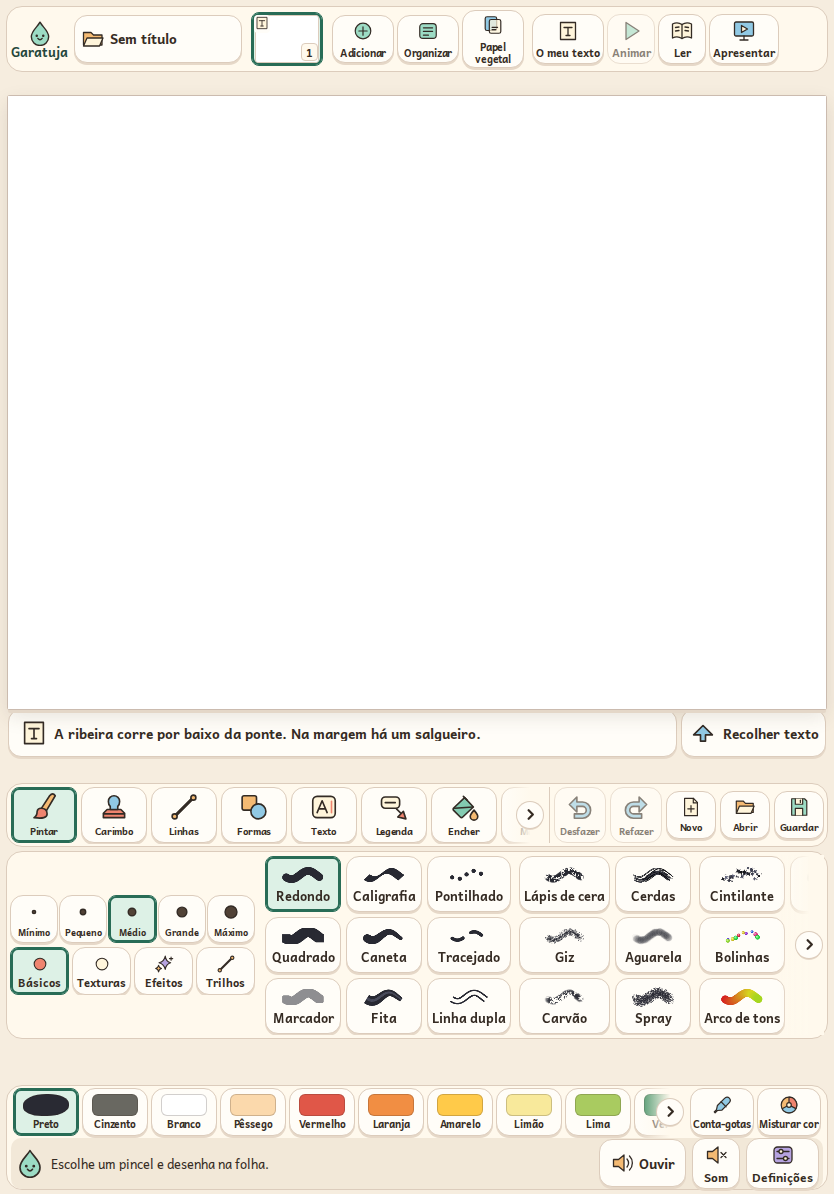
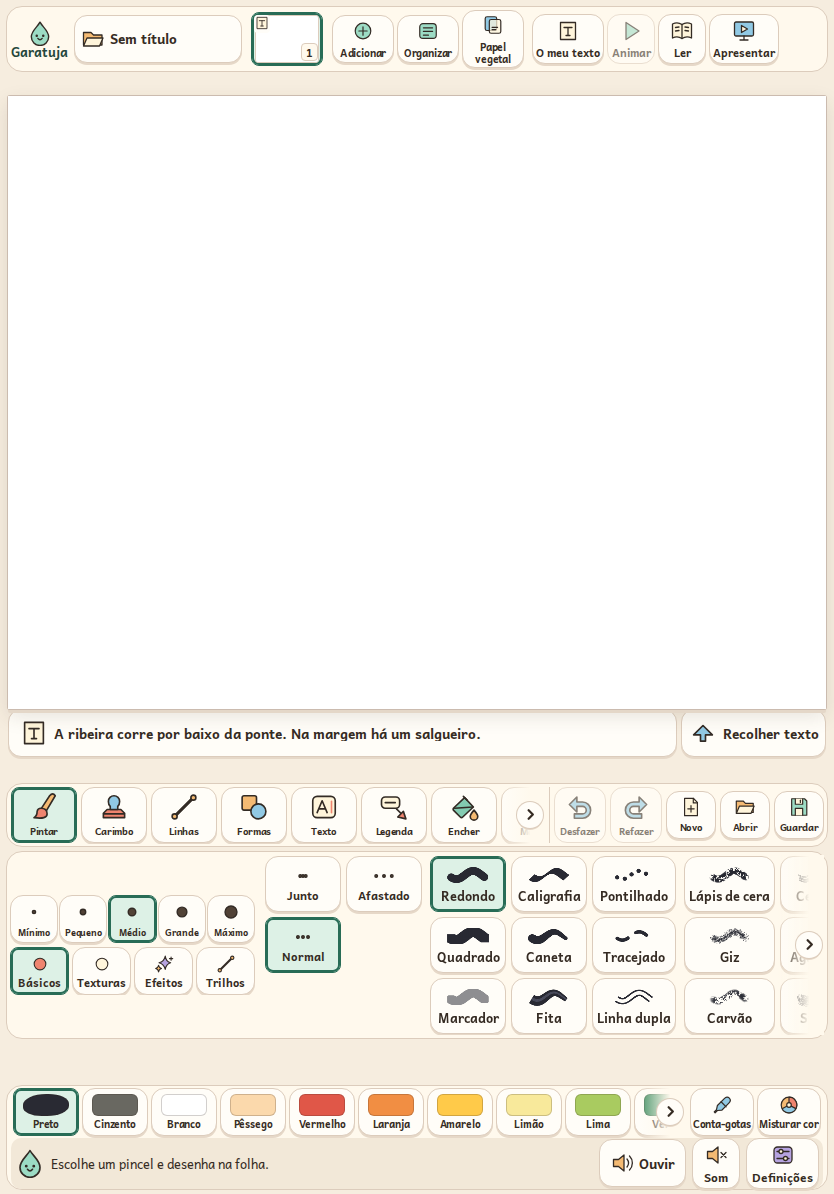
Record fifth-round QA and refresh the affected screenshots

Changed region(s): [[0.3118, 0.7127, 0.9664, 0.8677]]

diff --git a/docs/SPEC.md b/docs/SPEC.md
@@ -92,13 +92,13 @@ Pingo · Ouvir · Som · Definições
 
 | Ferramenta | id | Conteúdo |
 | --- | --- | --- |
-| Pintar | `paint` | ≥ 20 pincéis (`BrushDef`): redondo, quadrado, caligrafia, giz, lápis de cera, aguarela, spray, marcador, pontilhado, direcionais (seta, pegadas), animados (cintilante), pressão da caneta; 5 tamanhos |
+| Pintar | `paint` | ≥ 20 pincéis (`BrushDef`): redondo, quadrado, caligrafia, giz, lápis de cera, aguarela, spray, marcador, pontilhado, direcionais (seta, pegadas), animados (cintilante), pressão da caneta e 5 tamanhos. Espaçamento em três passos na interface completa |
 | Carimbo | `stamp` | categorias, tamanho, espelhar, virar, rodar; carimbos tingíveis; **«Os meus carimbos»** |
-| Linhas | `lines` | reta com qualquer pincel; Shift = ângulos de 15° |
+| Linhas | `lines` | reta com qualquer pincel e o espaçamento escolhido em Pintar; Shift = ângulos de 15° |
 | Formas | `shapes` | quadrado, retângulo, círculo, elipse, triângulo, pentágono, hexágono, octógono, losango, estrelas 5/6 pontas, coração, seta; cheio/contorno; do centro/do canto; rodar |
-| Texto | `text` | escreve no bitmap; fontes: Andika, manuscrita escolar (Playwrite PT), título, máquina de escrever; tamanhos; o bloco sobe para caber na folha e avisa durante a escrita quando excede a altura da folha; opção Só maiúsculas em toda a interface |
+| Texto | `text` | escreve no bitmap; fontes: Andika, manuscrita escolar (Playwrite PT), título, máquina de escrever; tamanhos; o bloco sobe e desloca-se para a esquerda para caber na folha. A largura respeita a palavra mais longa até ao limite da folha. O aviso aparece quando o bloco excede a folha; opção Só maiúsculas em toda a interface |
 | Legenda | `label` | texto que continua editável (mover, reescrever, apagar). Em clique fixo, Só texto e Narrador abrem ao primeiro toque numa zona livre. Mover uma legenda ou a sua pega continua a usar dois cliques. Pronto mantém aberto o campo se o texto exceder a folha e liberta a seleção quando a edição é aceite; **seta de legenda** e **número** para esquemas de texto informativo; **balões** de fala/pensamento/grito para narrativa |
-| Encher | `fill` | sólido, gradiente linear, radial, padrões, Pincel limitado à zona tocada e Apagar zona para repor o papel; tolerância que respeita linhas do modelo |
+| Encher | `fill` | sólido, gradiente linear, radial, padrões, Pincel com cinco tamanhos, limitado à zona tocada e Apagar zona para repor o papel; tolerância que respeita linhas do modelo |
 | Magia | `magic` | ≥ 60 efeitos (`MagicEffect`) em 5 categorias: pintar, cor, distorcer, padrões, página inteira |
 | Borracha | `eraser` | redonda/quadrada, 5 tamanhos; repõe o papel |
 | Mover | `move` | recortar um retângulo ou um laço, mover/aumentar/rodar/duplicar; **guardar como carimbo** |
@@ -129,7 +129,7 @@ inteira, o interruptor Em toda a folha fica junto dos tamanhos.
   o avanço percorre primeiro o texto da página por ecrãs. No fim, painel de comentários «Gostei / Pergunto / Sugiro» (texto livre, com nome de quem diz).
 - **Ler/Imprimir como livro** tem capa tipográfica com título, autor, destinatário e turma, quando definida.
   Cada ilustração aparece junto do seu texto. Ler mostra a miniatura enquanto prepara a imagem completa.
-  O livro impresso usa letra de 16 a 18 pt consoante o comprimento do texto. O rodapé acompanha o fim do texto.
+  O livro impresso usa letra de 16 a 18 pt consoante o comprimento do texto. A capa usa 36 pt no título e 20 pt no autor. O rodapé acompanha o fim do texto.
   Um trabalho de uma página sem título nem autor começa na própria página.
 - **Abrir → Diapositivos** permite selecionar trabalhos pela ordem em que a turma os vai ver.
   O leitor em ecrã inteiro passa por todas as páginas e mostra o título e autor de cada trabalho.
@@ -156,7 +156,7 @@ Apagar um trabalho aberto descarta o rascunho e envia a revisão guardada para a
 A exportação exclui a reciclagem e mostra o progresso. Quando o arquivo excede 160 MiB, apresenta
 volumes `.garatuja` importáveis individualmente. Um trabalho maior do que um volume divide-se nas
 fronteiras entre páginas.
-A eliminação exige escrever APAGAR (DELETE na interface em inglês). Limpa os trabalhos, carimbos,
+A eliminação exige escrever APAGAR (DELETE na interface em inglês). Aceita espaços antes e depois da palavra. Limpa os trabalhos, carimbos,
 reciclagem, rascunhos de recuperação e definições.
 
 Opções: interface
@@ -167,10 +167,10 @@ permitir importar ficheiros, clique fixo, cursor grande, alto contraste, mão es
 O teclado no ecrã é opcional e também está nas definições da criança. A disposição pode ser
 alfabética ou QWERTY. Texto, Legenda, O meu texto, os dados do trabalho e os comentários aceitam
 rato, toque e teclado físico. O teclado no ecrã tem teclas de pelo menos 48 px, maiúsculas, vogais acentuadas,
-cedilha, algarismos, pontuação, «º», «ª», hífen, espaço, apagar e nova linha nos campos com várias linhas.
+cedilha, algarismos, pontuação incluindo os sinais do discurso direto, «º», «ª», hífen, espaço, apagar e nova linha nos campos com várias linhas.
 Na folha, o teclado muda de posição para deixar o campo e as ações visíveis.
 Nos ecrãs estreitos, a tecla «á ç 123» dá acesso a acentos, números e sinais.
-Só maiúsculas aplica-se ao texto introduzido enquanto a opção está ativa. Os caracteres já escritos conservam a sua forma guardada.
+Só maiúsculas aplica-se à interface e ao texto introduzido enquanto a opção está ativa. Os caracteres já escritos conservam a grafia no editor e em todas as saídas. Ctrl+Z dentro de um campo usa o histórico desse campo.
 
 ## 7. Arquitetura
 
@@ -199,7 +199,7 @@ Só maiúsculas aplica-se ao texto introduzido enquanto a opção está ativa. O
   também em clique fixo.
 - O primeiro traço prepara o PNG e grava um rascunho em IndexedDB antes da gravação automática.
   A publicação do trabalho usa uma transação separada da escrita do rascunho. Se a página fechar
-  durante a publicação, o arranque seguinte pode recuperar o rascunho.
+  durante a publicação, o arranque seguinte pode recuperar o rascunho. Se a publicação continuar a falhar, a mesa abre o rascunho ativo e mantém um aviso com nova tentativa e exportação. Os rascunhos de outros trabalhos continuam disponíveis na galeria.
 - Se faltar espaço para guardar, a criança pode mudar de página ou começar outro trabalho. A
   versão em memória continua disponível na galeria e no ficheiro de recuperação. O aviso de
   gravação mantém-se até a gravação das alterações. A folha inicial intacta fica fora da galeria.

diff --git a/docs/QA.md b/docs/QA.md
@@ -148,9 +148,39 @@ O codificador GIF fica num worker separado. As licenças carregam ao abrir Créd
 - `npm run check` → TypeScript, ESLint, 273 testes unitários e compilação passaram — 2026-11-23
 - Cinco execuções seguidas de `npm run e2e` → cada uma teve 356 testes aprovados, 9 ignorados pela configuração e zero falhas. Duração por ordem em minutos: 3,6, 3,6, 3,6, 3,5 e 3,6 — 2026-11-23
 
+## Quinta ronda
+
+### Recuperação e autoria
+
+- Quota de publicação esgotada ao recarregar → abre o texto e o desenho do rascunho, mostra o aviso âmbar, exporta para `.garatuja` e publica quando a próxima tentativa tem espaço — 2026-11-23
+- Saída durante a publicação ou depois do primeiro traço → o rascunho é recuperado e o trabalho reaparece uma única vez. Um rascunho de outro trabalho conserva a entrada na galeria e fornece a imagem atual a Usar como modelo. Rascunhos independentes do mesmo trabalho ficam disponíveis em separado — 2026-11-23
+- Publicações simultâneas, cópia alterada noutro separador e Anular → página e comentário são repostos na cópia em que a eliminação ficou gravada. Anular um carimbo repõe o carimbo apagado mesmo que outro separador crie um novo — 2026-11-23
+- Reciclagem, expiração e apagar dados → a expiração confirma a revisão, Anular repõe um trabalho que só tinha rascunho, um aviso antigo de Anular só vale para a eliminação que o criou e um separador antigo não recria os trabalhos apagados pelo professor — 2026-11-23
+- Importação e exportação do professor → a importação valida as imagens antes de publicar o lote, atribui identificadores novos e abre o primeiro trabalho importado sem substituir o anterior. A exportação inclui os rascunhos e as revisões guardadas em conflito, exclui a reciclagem e divide arquivos grandes em volumes importáveis — 2026-11-23
+- Só maiúsculas em Ler, Apresentar, Diapositivos, impressão e faixa da mesa → texto e autoria mantêm a grafia. Miniatura, PNG, GIF e `.garatuja` têm o mesmo conteúdo com a opção ligada ou desligada — 2026-11-23
+- Capa e texto em PDF A4 → o PDF conserva «A Lia chegou ao Funchal.» e usa 36 pt no título, 20 pt no autor e 18 pt no corpo do exemplo — 2026-11-23
+- Texto junto ao lado direito e balão de fala → os blocos acomodam a palavra mais comprida e deslocam-se para dentro da folha. Ctrl+Z mantém a edição e desfaz a escrita nativa. Desfazer na mesa cancela a edição — 2026-11-23
+
+- Confirmação de eliminação na área do professor → aceita espaços antes e depois de APAGAR na confirmação final — 2026-11-23
+
+### Controlos e layout
+
+- Matriz de oito formatos e três modos → verifica alvos de 48 px, quebras entre palavras e rótulos dentro dos botões com legenda selecionada, recorte ativo, forma por rodar, texto em edição e diálogos abertos — 2026-11-23
+- Teclado nos oito formatos, com Só maiúsculas ligado e desligado → teclas de comando cabem e os sinais do discurso direto são introduzidos no campo — 2026-11-23
+- Tinta branca, amarela e limão → pincéis, linhas, formas, letras e carimbos tingíveis ganham um fundo escuro abaixo de 1,6:1 de contraste — 2026-11-23
+- Ouvir sem vozes e comentário incompleto → o aviso aparece junto de Ouvir. Os dois campos de comentário apresentam a validação da app em português e inglês — 2026-11-23
+- Fazer carimbo, Encher e espaçamento → o carimbo novo fica selecionado em Os meus carimbos. Encher tem dicas por modo e cinco tamanhos no Pincel. Junto, Normal e Afastado mudam a distância entre marcas em Pintar e Linhas na interface completa — 2026-11-23
+
+### Execuções
+
+- `npm run check` → tipos, lint, 274 testes unitários em 17 ficheiros e build passaram — 2026-11-23
+- Três execuções consecutivas de `npm run e2e` → 400 testes passaram e 9 ficaram fora da execução normal em cada uma. As três execuções duraram 4,4 min, 4,6 min e 4,6 min — 2026-11-23
+- Regeneração das capturas → 163 testes passaram em 2,3 min. Foram revistas as 25 imagens alteradas ou novas, incluindo a [legenda selecionada](screens/final-legenda-selecionada-1024x768.png), o [teclado no telemóvel](screens/final-teclado-em-baixo-390x844.png) e a [pré-visualização de impressão](screens/final-impressao-1366x768.png) — 2026-11-23
+
 ## Limitações observadas
 
 - Usei Chromium automatizado com ratos, teclados, toque e caneta simulados. A prova de autonomia de crianças, o toque num dispositivo físico e o tempo num Chromebook real continuam por verificar.
+- Os testes simulam uma quota esgotada na publicação com espaço no armazenamento de rascunhos. O esgotamento simultâneo dos dois armazenamentos continua por verificar.
 - A impressão foi verificada em PDF A4, incluindo a orientação dos dois formatos. A saída numa impressora física depende do dispositivo.
 - Os títulos longos podem aparecer abreviados no cartão. O diálogo e o nome acessível mostram o título integral. As faixas de retrato deslocam-se na horizontal e os telemóveis mais baixos podem exigir deslocamento vertical.
 - Os modelos antigos guardam o papel e as guias como imagens. As linhas novas dos modelos aplicam-se às páginas criadas com esses modelos.
